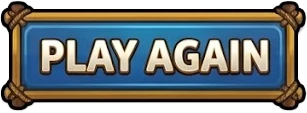
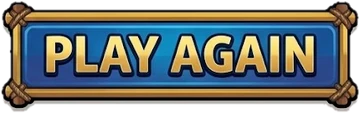
feat(ui): results buttons from the popup button set
HOME, PLAY AGAIN and REMATCH match the OK / LEAVE / STAY set.

diff --git a/apps/client/src/ui/Results.tsx b/apps/client/src/ui/Results.tsx
@@ -74,15 +74,15 @@ export function Results() {
         <div className="results-board__bottom">
           <div className="results-board__buttons">
             <button className="art-btn" onClick={() => void roomManager.leave()} aria-label="Home">
-              <img src={`${BASE}ui/btn-home.webp`} alt="" width={307} height={113} draggable={false} />
+              <img src={`${BASE}ui/btn-home.webp`} alt="" width={360} height={114} draggable={false} />
             </button>
             {paid ? (
               <button className="art-btn" onClick={playAgain} aria-label={`Play again for ${arena?.entryFee ?? 0} Sumo Coins`}>
-                <img src={`${BASE}ui/btn-play-again.webp`} alt="" width={307} height={113} draggable={false} />
+                <img src={`${BASE}ui/btn-play-again.webp`} alt="" width={360} height={113} draggable={false} />
               </button>
             ) : isHost ? (
               <button className="art-btn" onClick={() => roomManager.rematch()} aria-label="Rematch">
-                <img src={`${BASE}ui/btn-rematch.webp`} alt="" width={281} height={94} draggable={false} />
+                <img src={`${BASE}ui/btn-rematch.webp`} alt="" width={360} height={110} draggable={false} />
               </button>
             ) : null}
           </div>

diff --git a/CHANGELOG.md b/CHANGELOG.md
@@ -8,6 +8,10 @@ Releases use the root `package.json` version and are tagged `vX.Y.Z` automatical
 
 ### Changed
 
+- Results: HOME, PLAY AGAIN and REMATCH from the same button set as the popups.
+
+### Changed
+
 - Message / warning / error popups use one matching button set: OK, LEAVE, STAY, COIN SHOP, NOT NOW, RETRY and CLOSE.
 
 ### Changed
